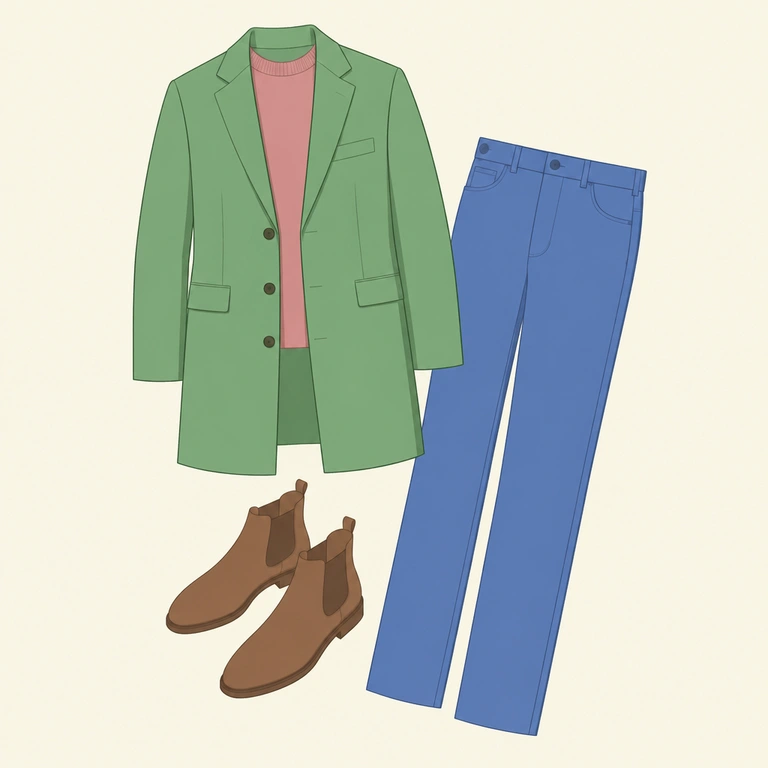
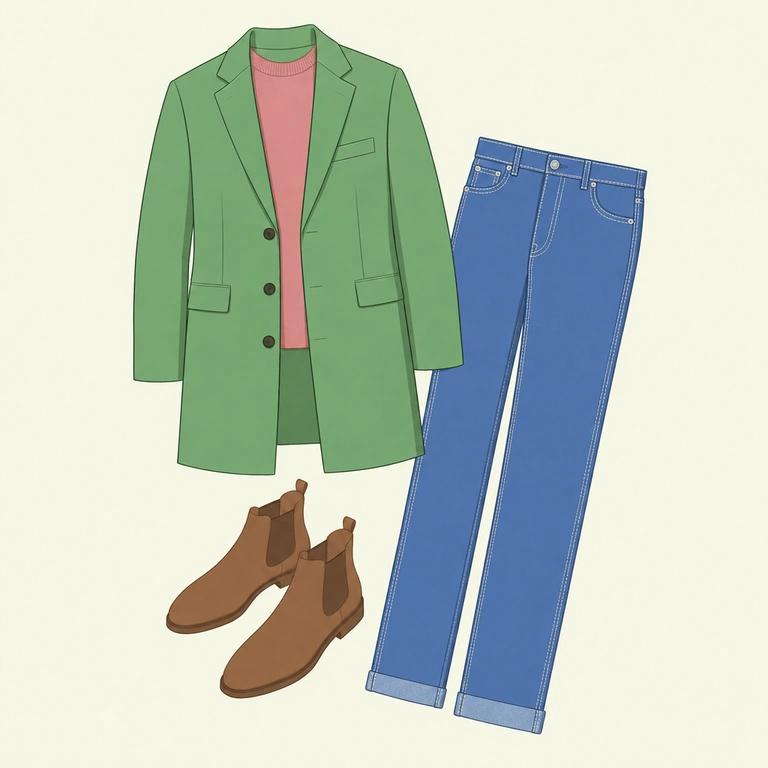
Illustrations: make the 7 jeans read as real denim
The blue trousers in 7 casual illustrations looked like slacks or chinos.
Each was edited (gpt_image_2_5) to add five-pocket jeans details: double
topstitching, coin pocket, belt loops, shank button, rivets and rolled
cuffs. m-casual-a was edited first and used as the reference for the
other six so the details match.

- Lossless transfer, RGB FNV-1a verified for all 7 sources.
- Masks rebuilt with the existing scripts; slot pixel counts move <1%,
  shoe and other slots unchanged, mask regression test passes.
- Provenance: new job ids, superseded ids, edit prompts; earlier edit
  records kept under edit_history.
- adapter.js: image ?v=4, mask ?v=6 so picture and mask switch together.

Claude-Session: https://claude.ai/code/session_01MehJjGbokh29Dqrjv8wPxF

diff --git a/assets/dalha-illustrations/adapter.js b/assets/dalha-illustrations/adapter.js
@@ -19,7 +19,7 @@ export async function hydrateIllustrations(root){
   const status=node.querySelector('[data-illustration-status]');
   status.hidden=false;status.textContent='코디 이미지를 불러오고 있습니다.';
   try{
-   const [source,mask]=await Promise.all([image(BASE+entry.id+'.webp?v=3'),image(BASE+entry.id+'-layers.png?v=5')]);
+   const [source,mask]=await Promise.all([image(BASE+entry.id+'.webp?v=4'),image(BASE+entry.id+'-layers.png?v=6')]);
    if(!node.isConnected||node.dataset.dalhaIllustration!==key)return;
    const original=pixels(source),layers=pixels(mask);
    if(original.width!==layers.width||original.height!==layers.height)throw new Error('Illustration layer size mismatch');
